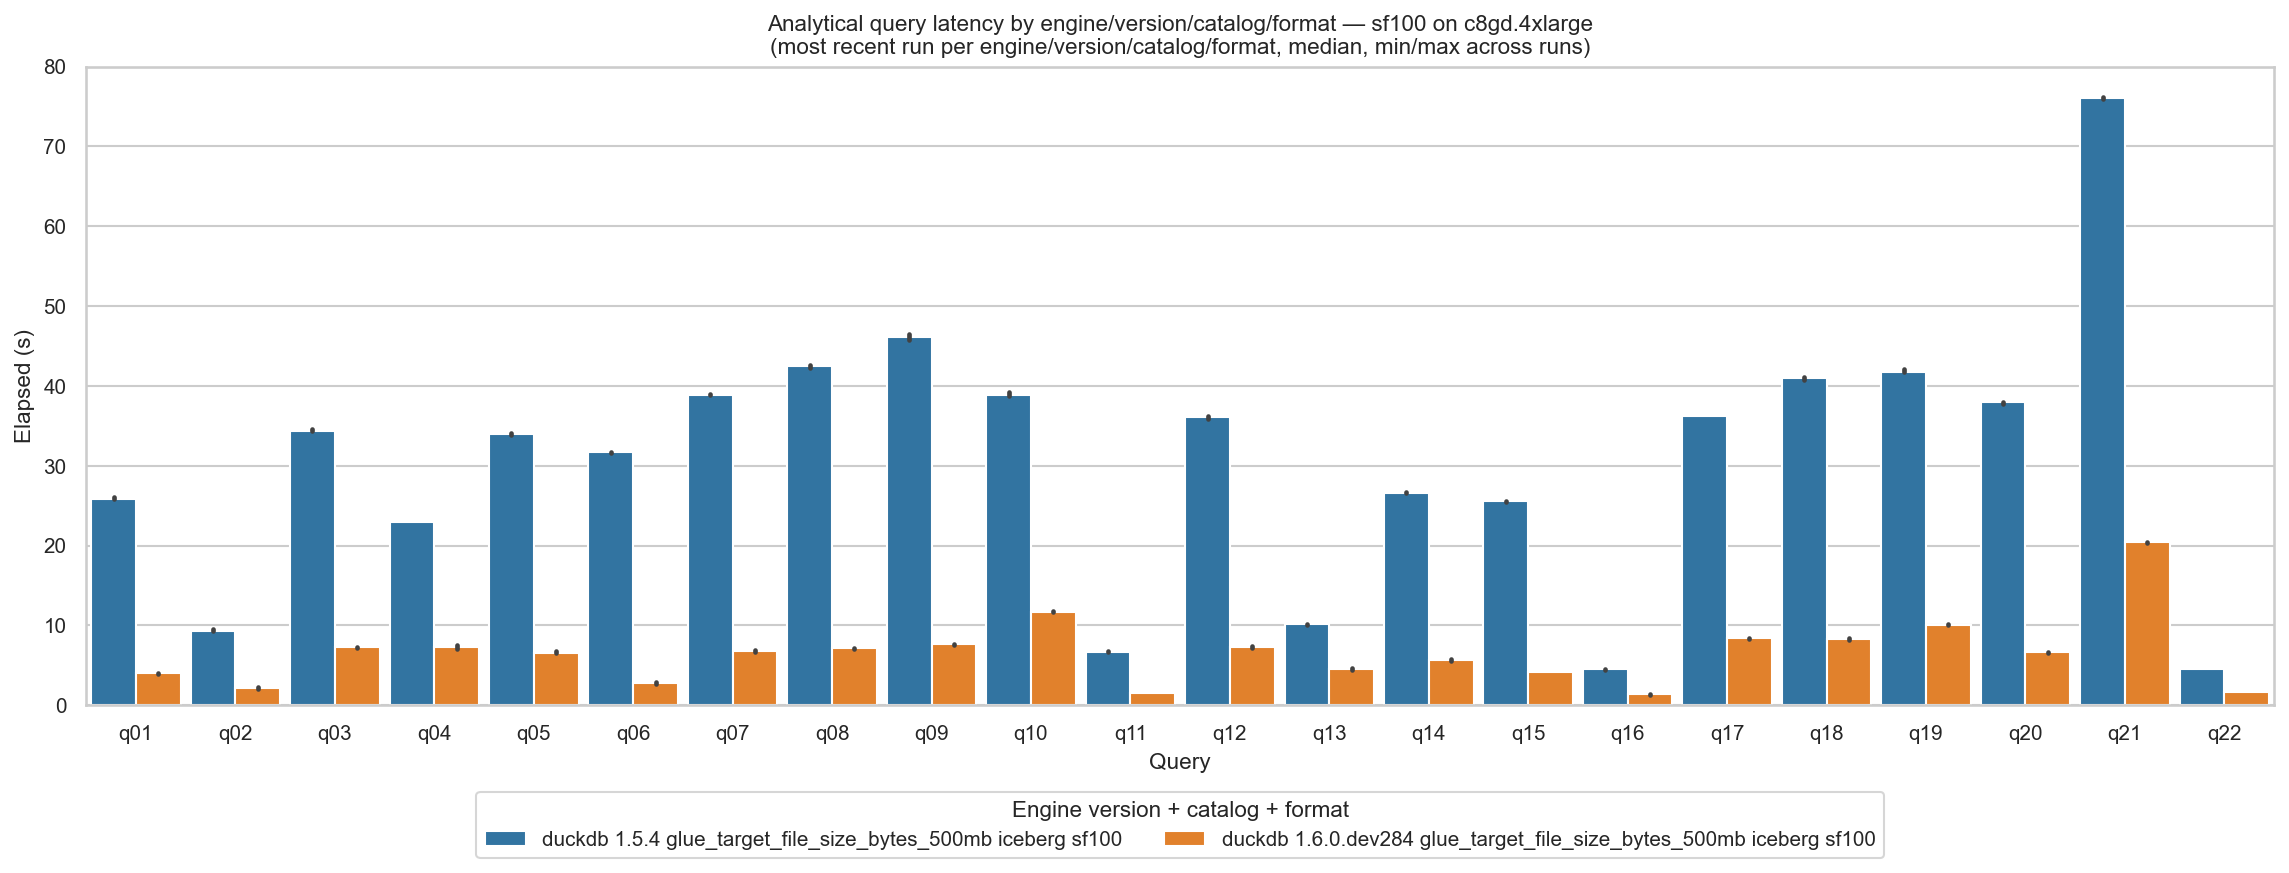
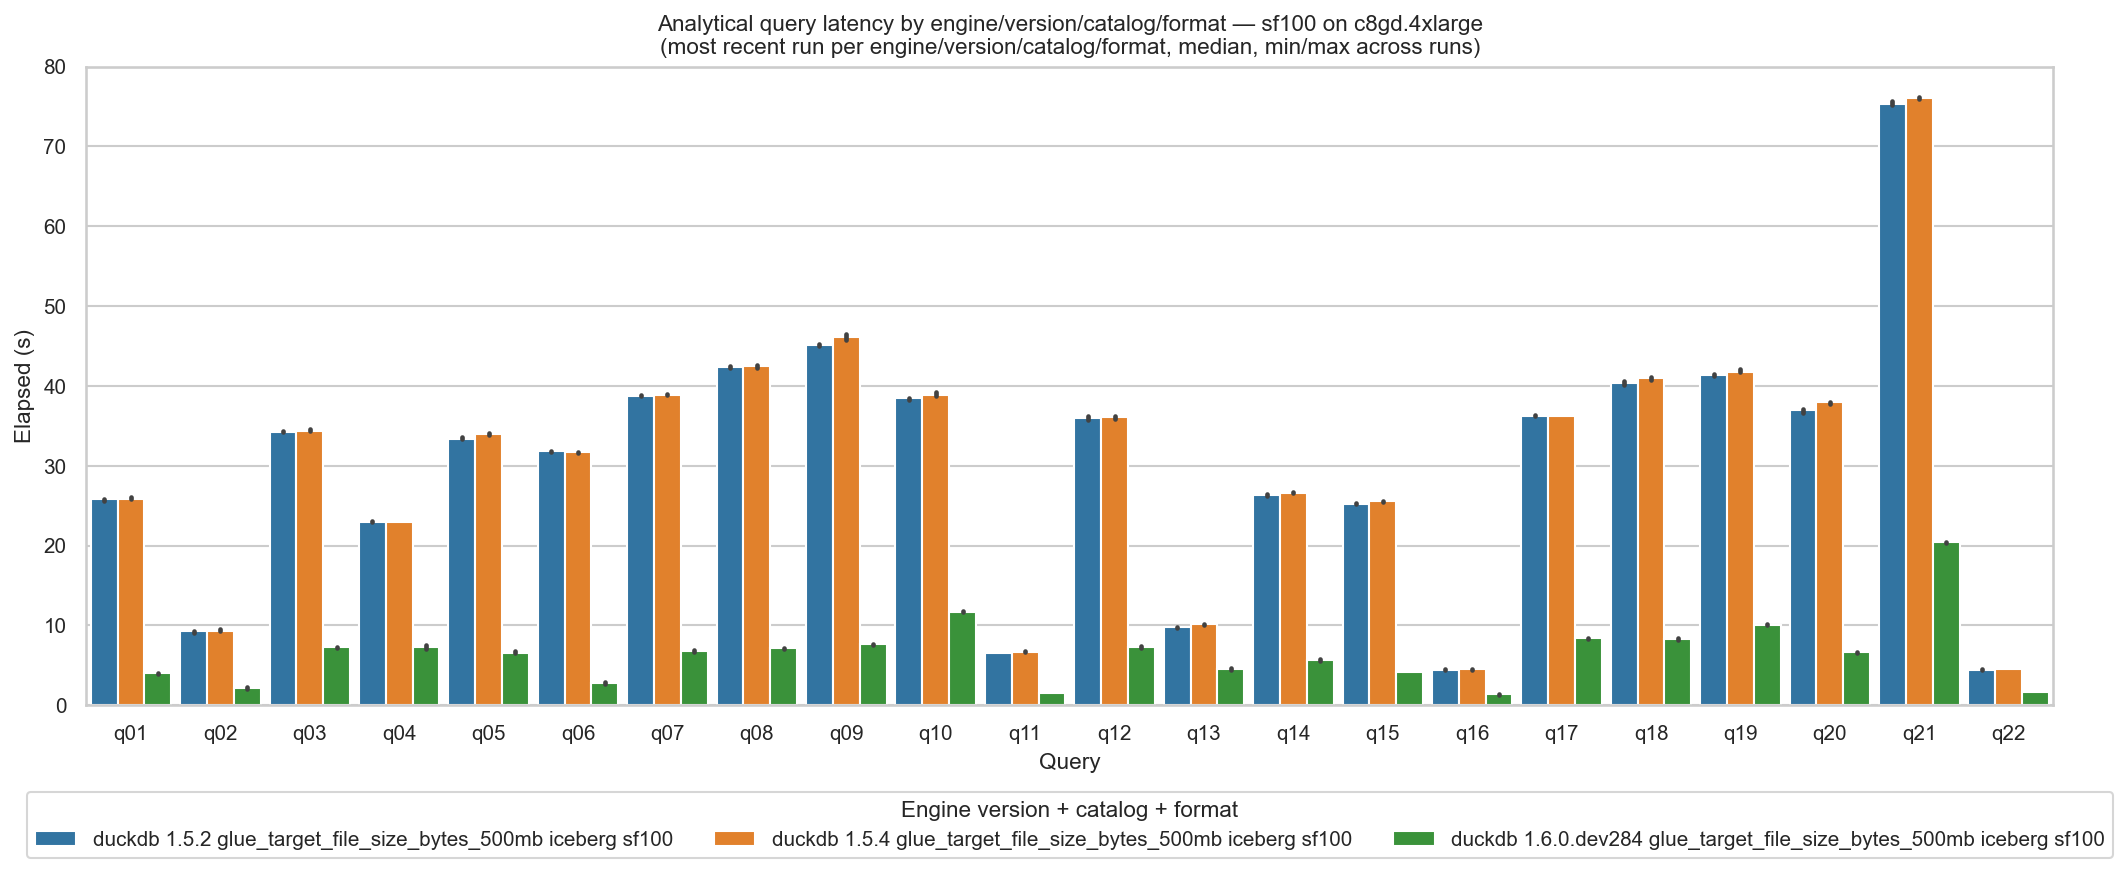
another report update

diff --git a/results/reports/July_16_2026/July_16_2026.md b/results/reports/July_16_2026/July_16_2026.md
@@ -7,6 +7,8 @@ Unless otherwise stated, tables were written with DuckDB-Iceberg @ v1.5.4 to a g
 For analytical tests, v1.5.2 and v1.5.4 have similar performance, with main (v2.0.0) showing major performance improvements. The performance improvements between v1.5.4 and main may be exaggerated, due to Iceberg tables not being written optimally. See section on S3Tables providing compaction for results on this.
 For Power tests, 1.5.2 and v1.5.4 are also similar in performance, with main (v2.0.0) showing very poor performance. This is due to the refactored parquet writer due to asyn-io improvements. There are changes required in parquet writer settings that are not used in DuckDB-Iceberg. The parquet files written for Iceberg tables have 2048 rows per row group, which is not optimial for reading.
 
+The general, the conclusion from the benchmarks is that DuckDB-Iceberg needs to make changes to the `row_group_size_bytes` and `target_file_size_bytes` characteristics of the parquet files storing Iceberg table data.
+
 
 ## TPCH Analytical benchmarks
 
@@ -101,6 +103,18 @@ To show that Async-IO does not provide the (sometimes) 10x performance improveme
 
 ### TPCH SF100
 
+
+If we compare v1.5.4 no compaction vs. v1.5.4 with compaction (s3tables) vs. async-io we see the following
+![](/results/reports/July_16_2026/images/duckdb_glue_vs_s3_tables_tpch_sf100.png)
+
+Which shows us DuckDB-Iceberg can improve when it comes to writing efficient Iceberg tables. 
+
+```
+uv run --extra plot plot_results.py --run-ids bbf42c0644da42f0b80e38ddff24de05 b980168fda8b483ea5173f3edab09766 0082eb3540e7471f93d9fbf5dd00c649
+```
+
+
+Below is DuckDB-Iceberg main (with compaction) vs DuckDB-Iceberg main (no compaction)
 ![tpch @sf100](/results/reports/July_16_2026/images/tpch_sf100_main_vs_main_s3tables.png)
 
 Plotted with 
@@ -108,21 +122,8 @@ Plotted with
 uv run --extra plot plot_results.py --benchmark analytical --run-ids c2a8ccaa83044acc8d2cee2a13a1027c 0082eb3540e7471f93d9fbf5dd00c649
 ```
 
-We see that DuckDB has room for improvement when it comes to writing Iceberg tables.
+This further emphasizes that DuckDB-Iceberg can make improvements when it comes to writing Iceberg tables.
 
-If we compare v1.5.4 no compaction vs. v1.5.4 with compaction (s3tables) vs. async-io we see the following
-![](/results/reports/July_16_2026/images/duckdb_glue_vs_s3_tables_tpch_sf100.png)
-
-Which shows us DuckDB-Iceberg really needs to improve writing Iceberg tables. 
-
-```
-uv run --extra plot plot_results.py --run-ids bbf42c0644da42f0b80e38ddff24de05 b980168fda8b483ea5173f3edab09766 0082eb3540e7471f93d9fbf5dd00c649
-```
-
-If we compare DuckDB main no compaction with DuckDB main with compaction, we see the following
-![](/results/reports/July_16_2026/images/duckdb_main_compact_vs_no_compact.png)
-
-Which shows us DuckDB needs to tune how it writes Iceberg Tables.
 
 ### Load Benchmark
 
